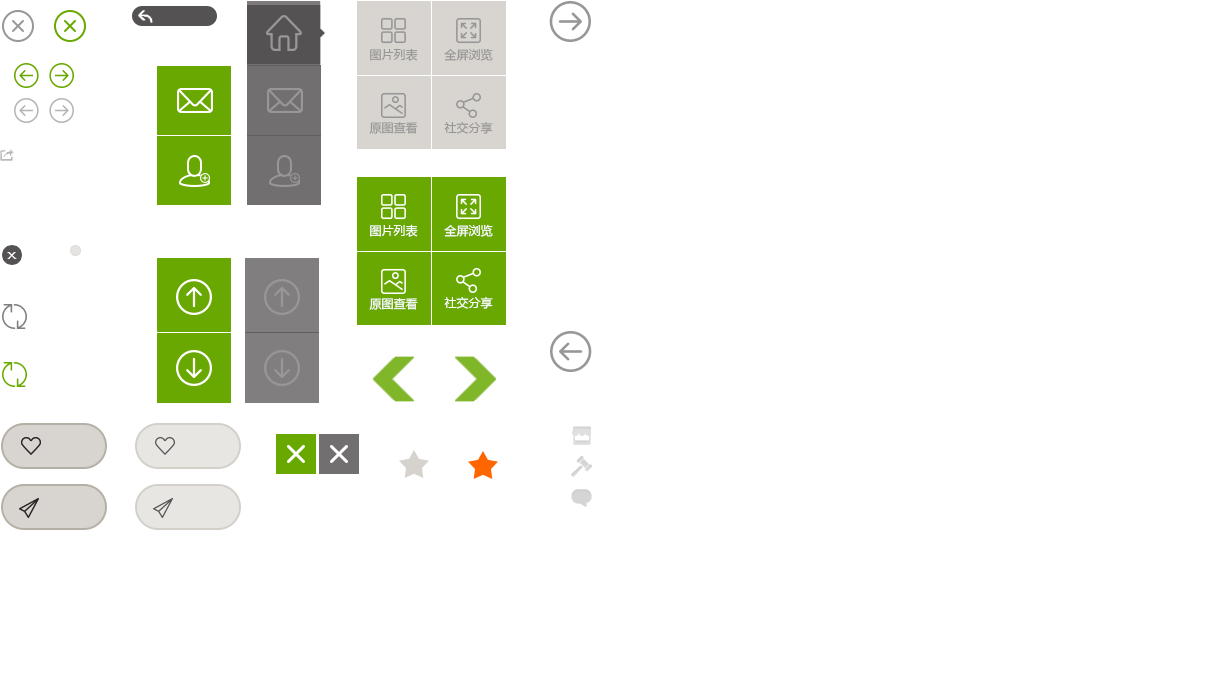
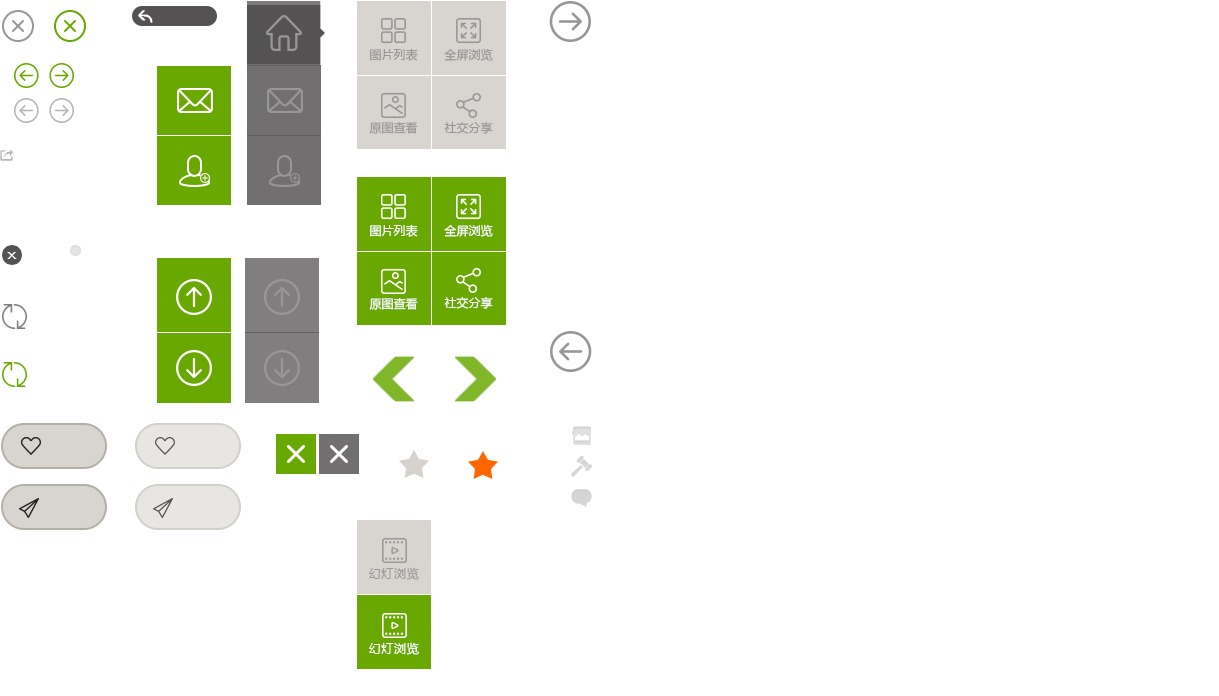
提交

Changed region(s): [[0.2806, 0.7241, 0.3741, 0.9655]]

diff --git a/pics.dk.html b/pics.dk.html
@@ -55,7 +55,7 @@
                     <span>1</span> / <i>0</i>
                   </div>
                   <div class="fxbuts clearfix">
-                    <a href="javascript:void(0);" title="图片列表" target="_self" class="sigez tplb"></a>
+                    <a href="javascript:void(0);" title="图片列表" target="_self" class="sigez tplb listshow"></a>
                     <a href="javascript:void(0);" title="全屏浏览" target="_self" class="sigez qpck"></a>
                     <a href="javascript:void(0);" title="原图查看" target="_self" class="sigez ytck"></a>
                     <div title="社交分享" class="sigez sjfx pr">
@@ -82,7 +82,7 @@
                 <p class="picwb">点击下方绿色高亮按钮可返回幻灯片模式</p>
                 <p class="picjtb"></p>
                 <div class="fxbuts clearfix">
-                  <a href="javascript:void(0);" title="图片列表" target="_self" class="sigez tplb"></a>
+                  <a href="javascript:void(0);" title="幻灯浏览" target="_self" class="sigez slideshow"></a>
                   <a href="javascript:void(0);" title="全屏浏览" target="_self" class="sigez qpck"></a>
                   <a href="javascript:void(0);" title="原图查看" target="_self" class="sigez ytck"></a>
                   <div title="社交分享" class="sigez sjfx pr">

diff --git a/js/photo_album.dk.js b/js/photo_album.dk.js
@@ -390,7 +390,7 @@ PhotoAlbum.prototype = {
 				self.listPager.prev();
 			}else if(action == 'next'){
 				self.listPager.next();
-			}else{
+			}else if(!isNaN(parseInt(action))){
 				action = parseInt(action);
 				self.go(action);
 				self.hideList();
@@ -406,6 +406,10 @@ PhotoAlbum.prototype = {
 			$(this).find('>div').show();
 		}, function(){
 			$(this).find('>div').hide();
+		});
+
+		this.panel.find('.slideshow').click(function(){
+			self.hideList();
 		});
 	},
 

diff --git a/css/index.css b/css/index.css
@@ -396,3 +396,5 @@
 .pics_lef p.next .p_mec:hover, .pics_lef p.prev .p_mec:hover{background:#66aa13;text-align:center;border: 0 none;}
 .thumblist{position: absolute;left:0;top:0;background: #fff;z-index: 999;width:855px;}
 .albumend{position: absolute;left:0;top:0;background: #fff;z-index: 999;width: 855px;display: none;}
+.fxbuts .slideshow{background-position: -357px -520px;}
+.fxbuts .slideshow:hover{background-position: -357px -595px;}
